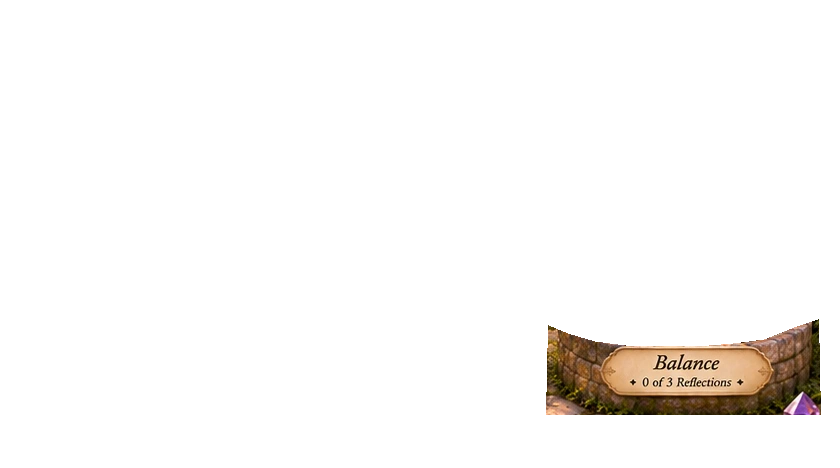
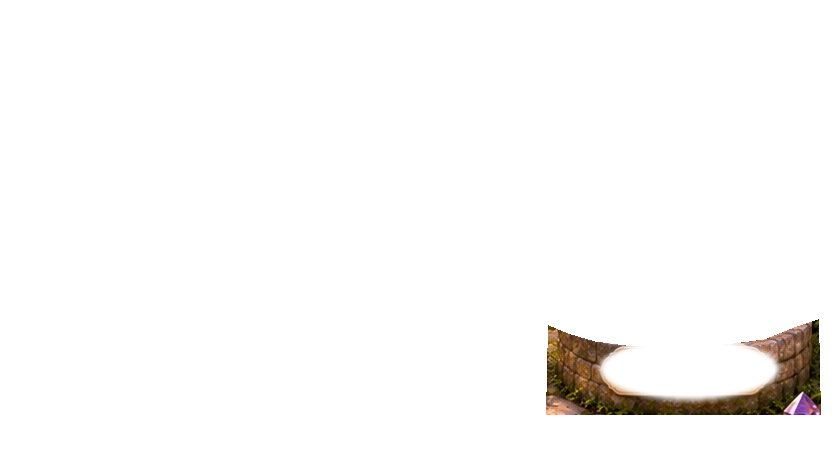
Add files via upload

Changed region(s): [[0.7119, 0.7179, 0.9286, 0.8675]]

diff --git a/index.html b/index.html
@@ -123,7 +123,7 @@ header p{font-style:italic;color:#ead9b9}.scene{box-shadow:0 0 0 5px #a08a5530,0
 body.motion-off .awakening *{animation:none!important}body.motion-off .falling-petal,body.motion-off .awaken-butterfly{display:none}body.motion-off .awakening.active #wildflowerSvg .wildflower{opacity:1;transform:scale(1)}body.motion-off .awakening.active #wildflowerSvg .bloom-head{opacity:1;transform:scale(1)}
 /* Final guard: never show any reflection-count labels inside the choice boxes. */
 .bed-picker .bed-progress,.bed-picker .progress,.bed-picker small,.bed-picker [class*="counter"],.bed-picker [class*="count"]{display:none!important}
-</style></head><body><main class="wrap"><header><h1>The Garden of Becoming</h1><div class="version-stamp">The Enchanted Awakening · Version 8 — Clean Labels</div><p>Six pathways to growth. Choose a planter, nurture it with reflection, and watch your garden come alive.</p></header><section class="scene" aria-label="Six-bed enchanted garden"><img id="garden" src="stage-0.webp?v=8" alt="Six stone planters in an enchanted garden, with the Self-Worth rose growing as you complete reflections"><button id="rose" class="hotspot" aria-label="Open Self-Worth reflection">Self-Worth</button><div id="healingPlant" aria-hidden="true"></div><div id="lilyPlant" aria-hidden="true"></div><div id="purposePlant" aria-hidden="true"></div><div id="resiliencePlant" aria-hidden="true"></div><div id="balancePlant" aria-hidden="true"></div><img id="balanceRim" src="balance-front-rim.png?v=8" alt="" aria-hidden="true"><img id="resilienceRim" src="resilience-front-rim.png" alt="" aria-hidden="true"><img id="purposeRim" src="purpose-front-rim.png" alt="" aria-hidden="true"><img id="healingRim" src="healing-front-rim.png" alt="" aria-hidden="true"><div id="awakening" class="awakening" aria-hidden="true"><div class="rainbow"></div><div class="sunbeam"></div><svg id="wildflowerSvg" viewBox="0 0 840 468" preserveAspectRatio="none" aria-hidden="true"></svg><div id="petalStorm" class="petal-storm"></div><div class="awaken-butterfly a-b1"><span>🦋</span></div><div class="awaken-butterfly a-b2"><span>🦋</span></div><div class="awaken-butterfly a-b3"><span>🦋</span></div><div class="garden-sheen"></div></div><div id="bedHits"></div><div class="atmosphere" id="atmosphere" aria-hidden="true"><div class="light-rays"></div><div class="butterfly bf-one"><i></i><i></i></div><div class="butterfly bf-two"><i></i><i></i></div><div class="fireflies" id="fireflies"></div><div class="celebration" id="celebration"></div></div></section><section id="endingPanel" class="ending-panel" aria-labelledby="endingTitle"><div class="ending-symbols" aria-hidden="true">✦ ❀ ✦</div><h2 id="endingTitle">Your Garden Has Awakened</h2><p>Every seed you planted has become part of something beautiful. You have tended six pathways through eighteen moments of reflection—and your garden is alive with possibility.</p><p><em>May the care you have given this garden be care you continue to give yourself.</em></p><button type="button" id="replayAwakening">Watch My Garden Awaken Again</button><button type="button" class="secondary" id="endingJournal">Read My Garden Story</button></section><div class="bed-picker" id="bedPicker" aria-label="Choose a garden bed"></div><p class="bed-note" id="bedNote"></p><div class="garden-quote" id="gardenQuote" aria-live="polite">“Growth happens one gentle moment at a time.”</div><div class="status" aria-live="polite"><strong id="status">Your garden journey</strong><div class="track"><div class="fill" id="fill"></div></div></div><div class="actions"><button id="continue" class="primary">Begin Your Journey</button><button id="journal">My Journal</button><button id="export">Export Reflections</button><button id="reset">Start Over</button><button id="previewAwakening" type="button">Preview Garden Awakening</button><button id="motionToggle" type="button" aria-pressed="true">Atmosphere: On</button></div><p class="hint" id="hint">Select the Self-Worth planter or Begin Your Journey. Each completed reflection changes the whole garden scene—no flower overlays.</p><p class="notice">Your reflections are saved only in this browser on this device, not in a clinical record. Export your journal to keep a copy. Avoid entering patient-identifying or confidential clinical information. If you share a device, others using this browser may be able to see saved reflections.</p></main><div class="backdrop" id="backdrop"><section class="modal" role="dialog" aria-modal="true" aria-labelledby="modalTitle"><h2 id="modalTitle"></h2><div id="modalBody"></div><div class="buttons" id="modalActions"></div></section></div><div class="toast" id="toast" role="status"></div><div id="gardenIllumination" class="garden-illumination" aria-hidden="true"></div><div id="growthMessage" class="growth-message" role="status" aria-live="polite"></div><script>
+</style></head><body><main class="wrap"><header><h1>The Garden of Becoming</h1><div class="version-stamp">The Enchanted Awakening · Version 9 — Clean Plaques</div><p>Six pathways to growth. Choose a planter, nurture it with reflection, and watch your garden come alive.</p></header><section class="scene" aria-label="Six-bed enchanted garden"><img id="garden" src="stage-0.webp?v=9" alt="Six stone planters in an enchanted garden, with the Self-Worth rose growing as you complete reflections"><button id="rose" class="hotspot" aria-label="Open Self-Worth reflection">Self-Worth</button><div id="healingPlant" aria-hidden="true"></div><div id="lilyPlant" aria-hidden="true"></div><div id="purposePlant" aria-hidden="true"></div><div id="resiliencePlant" aria-hidden="true"></div><div id="balancePlant" aria-hidden="true"></div><img id="balanceRim" src="balance-front-rim.png?v=9" alt="" aria-hidden="true"><img id="resilienceRim" src="resilience-front-rim.png" alt="" aria-hidden="true"><img id="purposeRim" src="purpose-front-rim.png" alt="" aria-hidden="true"><img id="healingRim" src="healing-front-rim.png" alt="" aria-hidden="true"><div id="awakening" class="awakening" aria-hidden="true"><div class="rainbow"></div><div class="sunbeam"></div><svg id="wildflowerSvg" viewBox="0 0 840 468" preserveAspectRatio="none" aria-hidden="true"></svg><div id="petalStorm" class="petal-storm"></div><div class="awaken-butterfly a-b1"><span>🦋</span></div><div class="awaken-butterfly a-b2"><span>🦋</span></div><div class="awaken-butterfly a-b3"><span>🦋</span></div><div class="garden-sheen"></div></div><div id="bedHits"></div><div class="atmosphere" id="atmosphere" aria-hidden="true"><div class="light-rays"></div><div class="butterfly bf-one"><i></i><i></i></div><div class="butterfly bf-two"><i></i><i></i></div><div class="fireflies" id="fireflies"></div><div class="celebration" id="celebration"></div></div></section><section id="endingPanel" class="ending-panel" aria-labelledby="endingTitle"><div class="ending-symbols" aria-hidden="true">✦ ❀ ✦</div><h2 id="endingTitle">Your Garden Has Awakened</h2><p>Every seed you planted has become part of something beautiful. You have tended six pathways through eighteen moments of reflection—and your garden is alive with possibility.</p><p><em>May the care you have given this garden be care you continue to give yourself.</em></p><button type="button" id="replayAwakening">Watch My Garden Awaken Again</button><button type="button" class="secondary" id="endingJournal">Read My Garden Story</button></section><div class="bed-picker" id="bedPicker" aria-label="Choose a garden bed"></div><p class="bed-note" id="bedNote"></p><div class="garden-quote" id="gardenQuote" aria-live="polite">“Growth happens one gentle moment at a time.”</div><div class="status" aria-live="polite"><strong id="status">Your garden journey</strong><div class="track"><div class="fill" id="fill"></div></div></div><div class="actions"><button id="continue" class="primary">Begin Your Journey</button><button id="journal">My Journal</button><button id="export">Export Reflections</button><button id="reset">Start Over</button><button id="previewAwakening" type="button">Preview Garden Awakening</button><button id="motionToggle" type="button" aria-pressed="true">Atmosphere: On</button></div><p class="hint" id="hint">Select the Self-Worth planter or Begin Your Journey. Each completed reflection changes the whole garden scene—no flower overlays.</p><p class="notice">Your reflections are saved only in this browser on this device, not in a clinical record. Export your journal to keep a copy. Avoid entering patient-identifying or confidential clinical information. If you share a device, others using this browser may be able to see saved reflections.</p></main><div class="backdrop" id="backdrop"><section class="modal" role="dialog" aria-modal="true" aria-labelledby="modalTitle"><h2 id="modalTitle"></h2><div id="modalBody"></div><div class="buttons" id="modalActions"></div></section></div><div class="toast" id="toast" role="status"></div><div id="gardenIllumination" class="garden-illumination" aria-hidden="true"></div><div id="growthMessage" class="growth-message" role="status" aria-live="polite"></div><script>
 (()=>{'use strict';
 const beds=[
 {name:'Self-Worth',flower:'Pink roses',prompts:[['The Forgotten Compliment','Recall a compliment you brushed aside. What exactly did someone notice, and why was it difficult to accept?'],['Borrowed Eyes','Imagine seeing yourself through the eyes of someone who cares for you. Which quality might they notice that you often overlook?'],['A Different Reflection','Remember a recent mistake. Write the compassionate response you would give a friend who made the same mistake.']]},
@@ -172,12 +172,12 @@ const target=['garden','healingPlant','lilyPlant','purposePlant','resiliencePlan
 
 function render(){const i=state.selected,s=state.stages[i],done=state.stages.reduce((a,b)=>a+b,0),completed=state.stages.filter(x=>x===3).length;
 // The approved full-scene rose growth remains intact; do not overlay other flowers until integrated scene artwork exists.
-$('garden').src='stage-'+state.stages[0]+'.webp?v=8';
+$('garden').src='stage-'+state.stages[0]+'.webp?v=9';
 $('healingPlant').style.backgroundImage=state.stages[1] ? 'url(healing-'+state.stages[1]+'.png)' : 'none';
 $('lilyPlant').style.backgroundImage=(state.stages[2]>0 || state.lilyPlanted) ? 'url(lily-'+state.stages[2]+'.png)' : 'none';
 $('purposePlant').style.backgroundImage=state.stages[3] ? 'url(purpose-'+state.stages[3]+'.png)' : 'none';
 $('resiliencePlant').style.backgroundImage=state.stages[4] ? 'url(resilience-'+state.stages[4]+'.png)' : 'none';
-$('balancePlant').style.backgroundImage=state.stages[5] ? 'url(balance-'+state.stages[5]+'.png?v=8)' : 'none';
+$('balancePlant').style.backgroundImage=state.stages[5] ? 'url(balance-'+state.stages[5]+'.png?v=9)' : 'none';
 $('gardenQuote').textContent=gardenQuotes[Math.min(5,completed)];$('status').textContent=done===18?'Your garden is in full bloom':'Your garden is growing';$('fill').style.width=(done/18*100)+'%';
 $('bedNote').textContent=beds[i].name+' · '+beds[i].flower+' · '+['Seed','First growth','Unopened buds','In bloom'][s];
 $('continue').textContent=s===3?'Read Completed Garden':'Continue '+beds[i].name;
